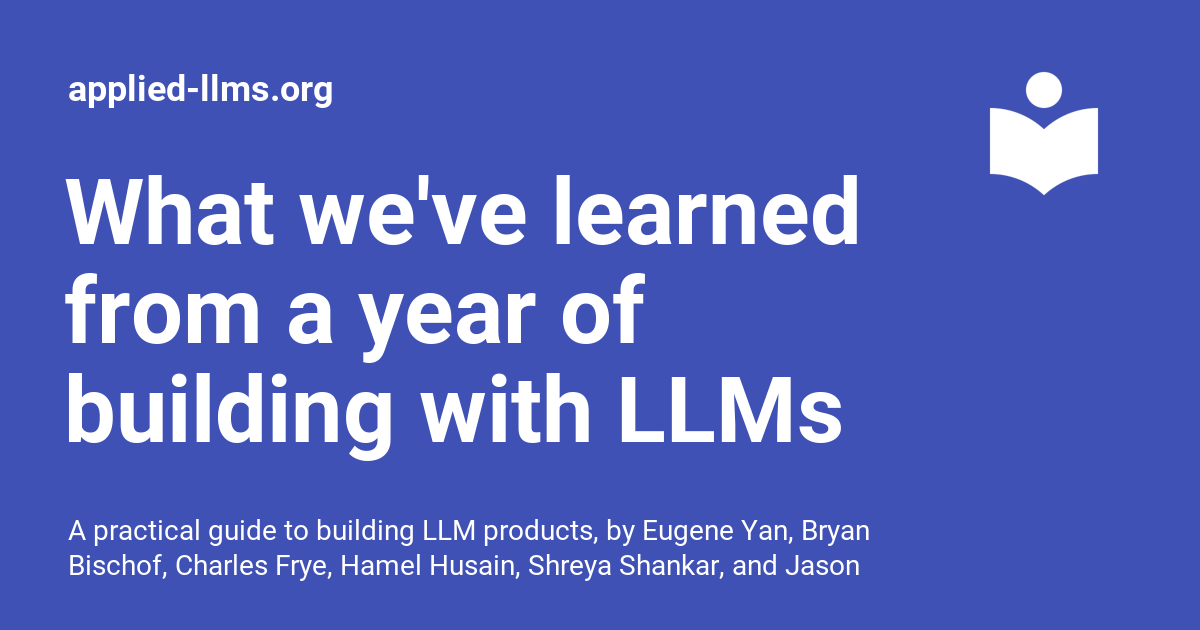
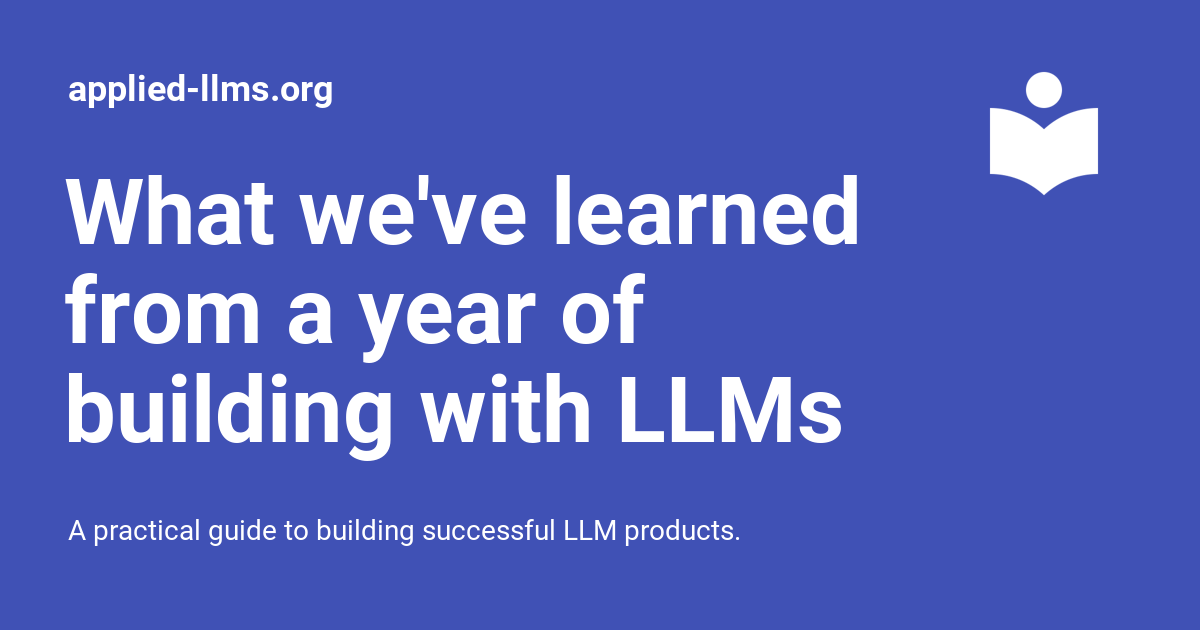
save

Changed region(s): [[0.0617, 0.8143, 0.74, 0.9349]]

diff --git a/_mkdocs/site/index.html b/_mkdocs/site/index.html
@@ -6,7 +6,7 @@
       <meta charset="utf-8">
       <meta name="viewport" content="width=device-width,initial-scale=1">
       
-        <meta name="description" content="A practical guide to building LLM products, by Eugene Yan, Bryan Bischof, Charles Frye, Hamel Husain, Shreya Shankar, and Jason Liu.">
+        <meta name="description" content="A practical guide to building successful LLM products.">
       
       
         <meta name="author" content="[{'name': 'Eugene Yan', 'url': 'https://eugeneyan.com'}, {'name': 'Bryan Bischof', 'url': 'https://www.linkedin.com/in/bryan-bischof/'}, {'name': 'Charles Frye', 'url': 'https://www.linkedin.com/in/charles-frye-38654abb/'}, {'name': 'Hamel Husain', 'url': 'https://hamel.dev'}, {'name': 'Shreya Shankar', 'url': 'https://www.sh-reya.com/'}, {'name': 'Jason Liu', 'url': 'https://jxnl.co/'}]">
@@ -56,7 +56,7 @@
       
         <meta  property="og:title"  content="What we've learned from a year of building with LLMs" >
       
-        <meta  property="og:description"  content="A practical guide to building LLM products, by Eugene Yan, Bryan Bischof, Charles Frye, Hamel Husain, Shreya Shankar, and Jason Liu." >
+        <meta  property="og:description"  content="A practical guide to building successful LLM products." >
       
         <meta  property="og:image"  content="https://applied-llms.org/assets/images/social/index.png" >
       
@@ -72,7 +72,7 @@
       
         <meta  name="twitter:title"  content="What we've learned from a year of building with LLMs" >
       
-        <meta  name="twitter:description"  content="A practical guide to building LLM products, by Eugene Yan, Bryan Bischof, Charles Frye, Hamel Husain, Shreya Shankar, and Jason Liu." >
+        <meta  name="twitter:description"  content="A practical guide to building successful LLM products." >
       
         <meta  name="twitter:image"  content="https://applied-llms.org/assets/images/social/index.png" >
       

diff --git a/_mkdocs/docs/index.md b/_mkdocs/docs/index.md
@@ -1,6 +1,6 @@
 ---
 title: "What we've learned from a year of building with LLMs"
-description: A practical guide to building LLM products, by Eugene Yan, Bryan Bischof, Charles Frye, Hamel Husain, Shreya Shankar, and Jason Liu.
+description: A practical guide to building successful LLM products.
 sidebar: false
 image: images/mkdocs_social_card.png
 toc: true
